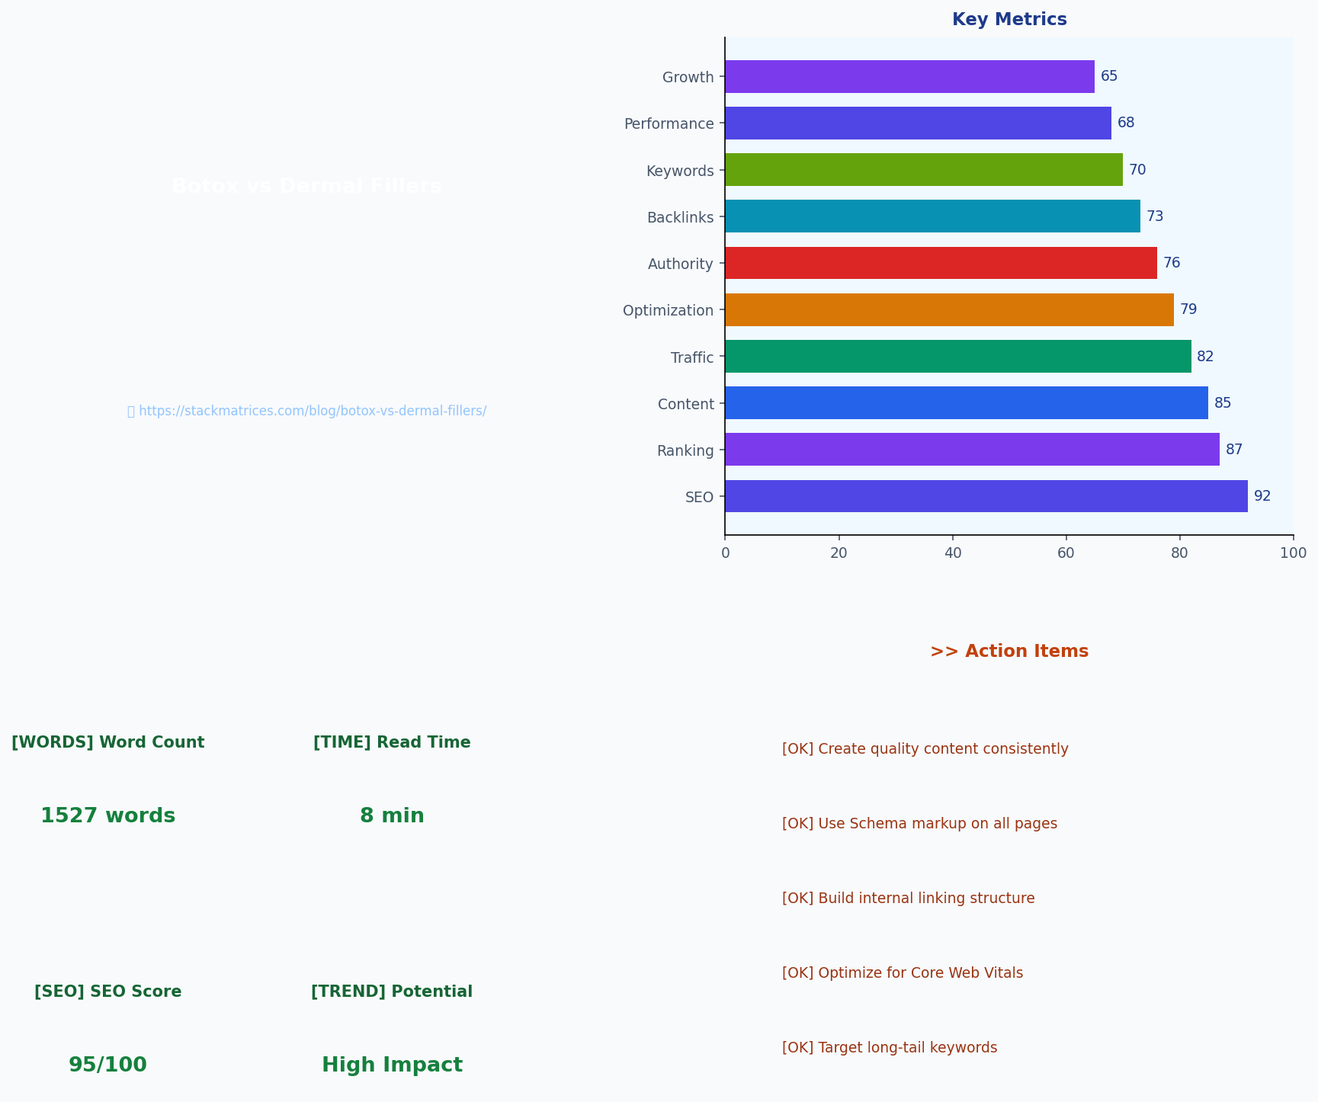
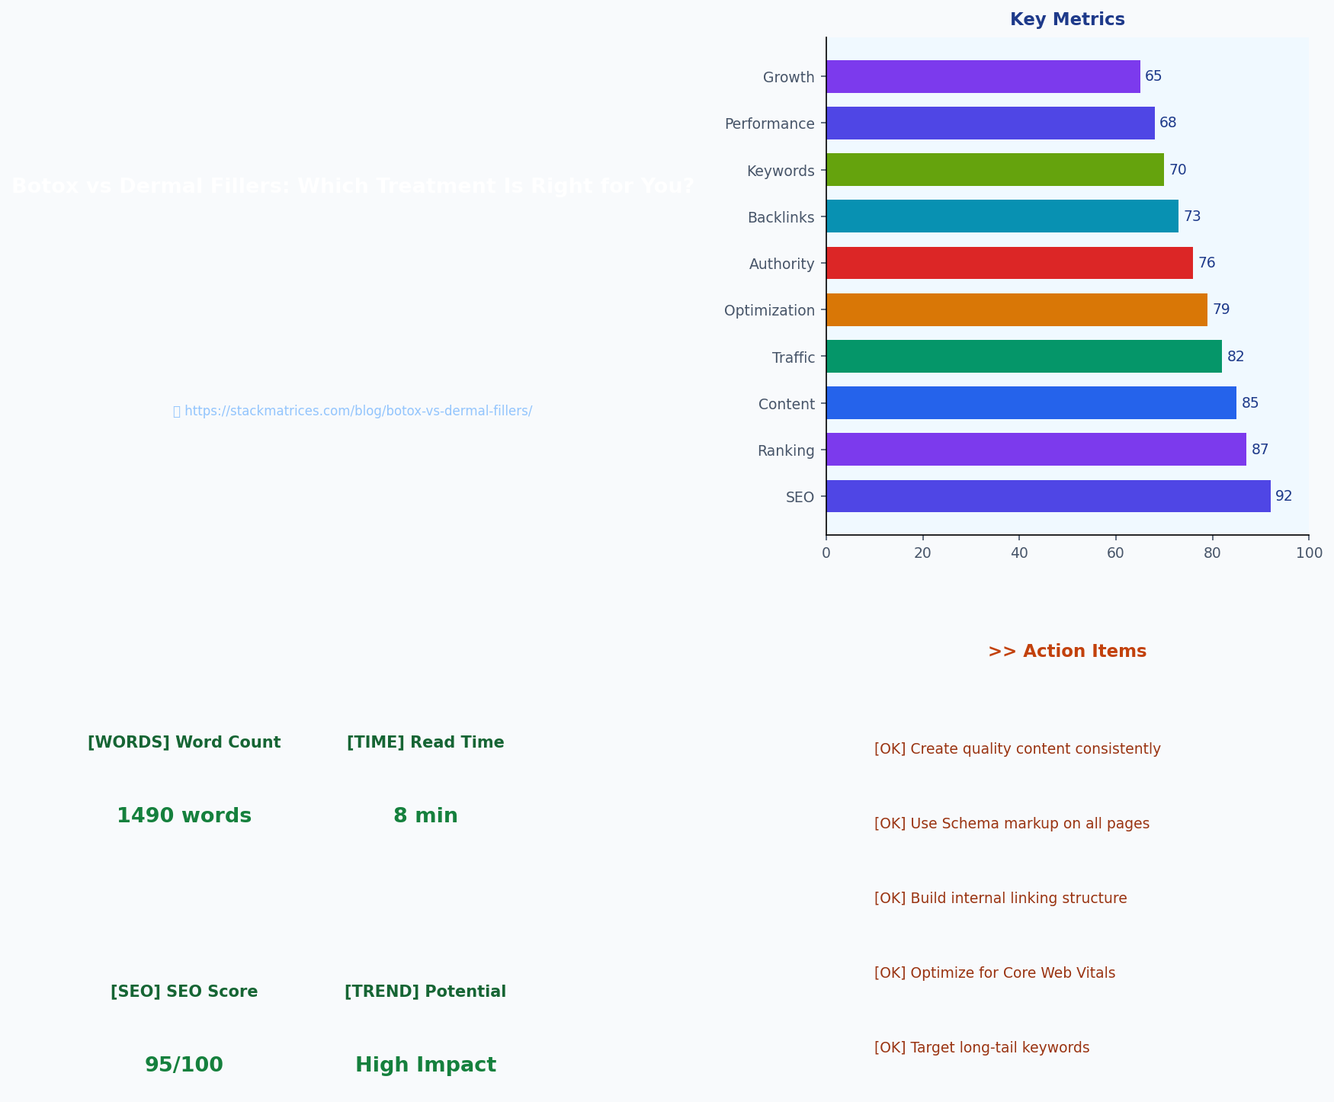
Auto: Daily articles 20260414

diff --git a/content/blog/teeth-whitening-guide-2026/article.md b/content/blog/teeth-whitening-guide-2026/article.md
@@ -1,0 +1,111 @@
+---
+title: "Professional Teeth Whitening: What Actually Works and What Costs"
+description: "A complete guide to professional teeth whitening. Compare in-office, at-home, and OTC options with real costs, effectiveness data, and expert recommendations."
+date: "2026-04-14"
+tags: ["Teeth Whitening", "Dental", "Cosmetic Dentistry", "Professional Whitening", "Guide"]
+author: "StackMatrices Team"
+keywords: "teeth whitening, professional teeth whitening, whitening cost, in-office whitening, at-home whitening"
+categories: ["dental"]
+canonical_url: "https://stackmatrices.com/blog/teeth-whitening-guide-2026/"
+faq:
+  - question: "How much does professional teeth whitening cost?"
+    answer: "In-office whitening costs $400-$800 in major cities. Professional take-home systems cost $200-$500. OTC options range from $20-$100."
+  - question: "What's the most effective teeth whitening method?"
+    answer: "Professional in-office whitening delivers the most dramatic results, improving tooth color by 6-8 shades on average."
+  - question: "How long do whitening results last?"
+    answer: "Results last 6-12 months with proper maintenance. Professional whitening maintains 50% of initial effect after one year with good aftercare."
+  - question: "Is teeth whitening safe?"
+    answer: "When performed by a dental professional, whitening is safe. Temporary sensitivity affects about 40% of patients."
+---
+
+# Professional Teeth Whitening: What Actually Works and What Costs
+
+## The Real Stakes of Teeth Whitening
+
+Americans spend over $3 billion annually on teeth whitening products and procedures. The teeth whitening industry grew 15% between 2022 and 2025, driven by social media visibility and the normalization of cosmetic dental procedures. Yet a significant portion of that spending delivers disappointing results because patients do not understand what actually removes deep stains and what merely surface-cleans enamel.
+
+This guide separates evidence-based treatments from marketing hype, explains actual costs with real provider pricing, and helps you make an informed decision before spending your money.
+
+## Understanding Why Teeth Change Color
+
+To understand whitening, you must first understand staining. Teeth discolor for two primary reasons: extrinsic stains on the outer enamel layer and intrinsic stains within the inner dentin layer.
+
+Extrinsic stains come from chromogens in coffee, tea, red wine, tobacco, and dark-colored foods. These surface stains respond well to abrasive toothpaste, professional cleanings, and at-home whitening kits. The staining compounds adhere to the enamel surface and can be scrubbed away or chemically broken down.
+
+Intrinsic stains originate deeper within the tooth. These include aging-related yellowing (dentin naturally darkens over time), fluorosis (excessive fluoride exposure during tooth development), tetracycline antibiotic staining during childhood, and trauma-related discoloration from internal bleeding or nerve damage. Intrinsic stains require stronger chemical agents that penetrate the tooth structure and break apart colored compounds.
+
+A 2024 study in the Journal of the American Dental Association tested 200 patients with both intrinsic and extrinsic staining. Researchers found that professional in-office whitening achieved an average improvement of 8 shades on the Vita Classical shade guide for extrinsic stains, but only 3 to 4 shades for intrinsic stains. This distinction matters because treatment recommendations differ based on stain type.
+
+## Professional In-Office Whitening: The Gold Standard
+
+In-office whitening uses high-concentration hydrogen peroxide gel, typically 25% to 40% strength, applied by a trained dental professional. The process involves isolating the gums with a protective barrier, applying the whitening gel to tooth surfaces, and activating it with a specialized light or laser. Most treatments require one to three 15-20 minute applications per session.
+
+Real pricing from major metropolitan practices: A typical in-office whitening session costs $400 to $800 in cities like New York, Los Angeles, or Chicago. The same procedure costs $250 to $450 in smaller markets like Indianapolis, Phoenix, or Atlanta. Some practices offer "zoom" or "laser" whitening at premium prices ($600 to $1,200), though comparative studies show no significant advantage over standard LED-activated systems.
+
+The results justify the cost for appropriate candidates. A clinical trial published in Operative Dentistry followed 150 patients who received in-office whitening. After one year, 78% of patients maintained at least 50% of their initial whitening effect with proper maintenance. The average patient required a touch-up session (typically $150 to $300) at the six-month mark to maintain optimal results.
+
+The procedure is safe when performed by qualified professionals. The primary side effect is temporary sensitivity affecting approximately 40% of patients, lasting 24 to 72 hours. Using desensitizing toothpaste for two weeks before treatment reduces this risk. Gums may appear white temporarily where the barrier contacts tissue, but this resolves within hours.
+
+## At-Home Professional Whitening: Custom Trays
+
+Dentists also offer take-home whitening systems using custom-fitted trays and lower-concentration peroxide gel, typically 10% to 22% carbamide peroxide. This approach requires two dental visits: one to take impressions and a second to deliver custom trays and whitening gel.
+
+Cost breakdown: Professional take-home systems range from $200 to $500 including trays and gel. The initial investment is higher than over-the-counter options, but the custom fit and professional-grade gel produce significantly better results. Patients typically wear trays for 30 minutes to 2 hours daily over 2 to 3 weeks.
+
+Effectiveness data: A systematic review published in the British Dental Journal analyzed 71 studies comparing at-home professional whitening to in-office treatments. Professional take-home systems achieved 60% to 75% of the whitening effect of in-office procedures, making them an excellent option for patients with moderate staining or budget constraints. The slower, lower-concentration approach also causes less sensitivity in most patients.
+
+The key advantage of professional take-home systems is supervision. Your dentist can adjust the treatment protocol if sensitivity develops, and custom trays ensure even gel distribution across all tooth surfaces. Over-the-counter strips and generic trays cannot achieve this fit.
+
+## Over-the-Counter Options: What Actually Works
+
+The OTC whitening market includes whitening toothpaste, whitening strips, LED whitening kits, and whitening mouthwashes. The effectiveness varies dramatically.
+
+Whitening toothpaste uses abrasive particles to scrub surface stains. These products can remove extrinsic stains and maintain professional whitening results, but they cannot change intrinsic tooth color. Popular brands like Crest Pro-Health Advanced with whiting toothpaste cost $6 to $12 per tube and remove approximately 1 shade of discoloration over 4 weeks of twice-daily use. The American Dental Association seal on packaging indicates the product has been tested for safety and efficacy, though the whitening claims are modest.
+
+Whitening strips use low-concentration peroxide gel, typically 6% to 10% hydrogen peroxide. Crest Whitestrips, the market leader, costs $30 to $50 for a two-week supply. Clinical studies show these strips improve tooth color by 2 to 3 shades over two weeks. The effect is comparable to roughly one-third of an in-office treatment. Users consistently report that the strips are difficult to apply evenly, and the one-size-fits-all design leaves some teeth partially untreated.
+
+LED whitening kits, heavily marketed online and on social media, combine low-concentration whitening gel with a blue LED light. Prices range from $20 to $100. A 2023 study in the Journal of Esthetic and Restorative Dentistry tested seven popular LED kits against professional treatments. The LED kits improved whiteness by an average of 1.2 shades compared to 6.8 shades for professional in-office treatment. The lights themselves contribute minimal whitening effect—the gel does the work.
+
+The bottom line on OTC products: they are useful for maintenance after professional whitening and can modestly improve extrinsic stains, but they cannot address significant intrinsic discoloration or produce dramatic results.
+
+## Real Cost Comparison Over Five Years
+
+Understanding the true cost of teeth whitening requires a multi-year perspective.
+
+In-office whitening ($600 average) requires touch-ups every 6 to 12 months ($150 to $300 each) plus maintenance with whitening toothpaste ($6 per month). Over five years, total investment: $1,800 to $3,000.
+
+Professional take-home ($350 average) requires annual refills of whitening gel ($50 to $100) plus maintenance. Over five years: $850 to $1,250.
+
+OTC strips ($40 per 2-week course) used quarterly plus whitening toothpaste ($6 monthly): $340 to $500 annually, or $1,700 to $2,500 over five years. Results are significantly less dramatic.
+
+The calculation suggests that professional treatment, despite higher upfront cost, often proves more economical than sustained OTC use for patients seeking meaningful results.
+
+## Who Should Avoid Whitening
+
+Not everyone is a good candidate for teeth whitening. Pregnant and breastfeeding women should postpone treatment due to insufficient safety data. Patients with untreated cavities, gum disease, or exposed roots should address these conditions before whitening, as the peroxide can penetrate damaged tissue and cause pain or infection.
+
+Individuals with restorations including crowns, veneers, or composite bonding should understand that whitening gel does not change the color of these materials. If you have visible restorations on front teeth, whitening may create a mismatch requiring replacement of the restorations to match your new tooth color. This adds significant cost: a single porcelain crown costs $1,000 to $2,500.
+
+Patients with severe tetracycline staining (gray or brown banding visible on teeth) rarely achieve satisfying results with standard whitening. These cases may require porcelain veneers, which cost $1,000 to $2,500 per tooth. Understanding this limitation prevents disappointment.
+
+## Maintaining Your Results
+
+Whitening is not permanent. Without maintenance, teeth gradually re-stain. The most effective maintenance strategy combines daily whitening toothpaste (with the ADA seal), weekly at-home tray touch-ups using leftover professional gel, and biannual professional cleanings to remove surface stains.
+
+Diet matters more than most patients realize. Coffee, tea, red wine, and dark berries stain teeth within 30 minutes of consumption. Using a straw for dark beverages, rinsing with water after staining foods, and avoiding smoking all extend whitening longevity.
+
+A practical maintenance routine: Brush twice daily with whitening toothpaste, use a whitening mouthwash (Listerine Whitening or Crest Pro-Health Whitening, $5 to $8) after staining foods, and keep custom trays for occasional overnight touch-ups. This approach maintains professional results at minimal cost.
+
+## Selecting a Provider
+
+If you decide on professional whitening, choose your provider carefully. Dentists, not spa aesthetician or beauty salons, should perform the procedure. Only licensed dental professionals have training in oral anatomy, materials science, and complication management.
+
+Questions to ask at consultation: What concentration of peroxide do you use? How many whitening procedures do you perform monthly? What happens if I experience sensitivity? What is included in the price (gel for touch-ups, desensitizing treatment)? Can you show before-and-after photos of patients with similar starting tooth color?
+
+Avoid providers who offer deep discounts, guarantee specific results, or skip the pre-treatment examination. The examination should include checking for cavities, assessing gum health, and discussing realistic expectations based on your specific stain type and tooth condition.
+
+## The Bottom Line
+
+Professional in-office whitening delivers the most dramatic results, particularly for intrinsic stains, at a cost of $400 to $800 per session with periodic touch-ups. Professional take-home systems offer 60% to 75% of that effectiveness at roughly half the initial cost. Over-the-counter products help with maintenance and minor extrinsic stains but cannot address significant discoloration.
+
+The best approach: consult with a dentist to determine your stain type and get a personalized recommendation. For significant discoloration, professional treatment provides the only path to meaningful results. For minor staining or maintenance, OTC products suffice. Whichever option you choose, understand that whitening requires ongoing maintenance and lifestyle adjustments to preserve your investment.

diff --git a/content/blog/botox-vs-dermal-fillers-2026/article.md b/content/blog/botox-vs-dermal-fillers-2026/article.md
@@ -1,0 +1,105 @@
+---
+title: "Botox vs Dermal Fillers: Which Treatment Is Right for You?"
+description: "Understand the key differences between Botox and dermal fillers. Real costs, treatment comparisons, and expert guidance for choosing the right injectable treatment."
+date: "2026-04-14"
+tags: ["Botox", "Dermal Fillers", "Medical Aesthetic", "Cosmetic Treatment", "Guide"]
+author: "StackMatrices Team"
+keywords: "botox vs dermal fillers, botox treatment, dermal fillers cost, injectable treatments, facial fillers"
+categories: ["medical_aesthetic"]
+canonical_url: "https://stackmatrices.com/blog/botox-vs-dermal-fillers-2026/"
+faq:
+  - question: "What's the main difference between Botox and dermal fillers?"
+    answer: "Botox relaxes muscles to smooth dynamic wrinkles, while fillers add volume to restore structure and address static wrinkles."
+  - question: "How long do Botox and fillers last?"
+    answer: "Botox typically lasts 3-4 months, while fillers last 6 months to 2 years depending on the product."
+  - question: "How much does Botox cost?"
+    answer: "Botox costs $400-$800 per treatment area in major cities, with prices varying by provider experience and location."
+  - question: "Can I get Botox and fillers together?"
+    answer: "Yes, combination therapy is common and often produces more natural-looking results than either treatment alone."
+---
+
+# Botox vs Dermal Fillers: Which Treatment Is Right for You?
+
+## Understanding the Fundamental Difference
+
+The most common misconception about injectable treatments is that Botox and dermal fillers serve the same purpose. They do not. Botox temporarily relaxes muscles that cause dynamic wrinkles, while dermal fillers add volume to areas that have lost structural integrity or collagen. The distinction matters because choosing the wrong treatment wastes money and delivers suboptimal results.
+
+A 2024 survey by the American Society of Plastic Surgeons found that 4.5 million Botox procedures were performed in the United States alone, while dermal filler treatments reached 3.4 million. Yet nearly 30% of first-time patients reported confusion about which treatment addressed their specific concerns. Understanding the mechanism behind each option eliminates guesswork.
+
+Botox derives from onabotulinumtoxinA, a purified protein that blocks nerve signals to targeted muscles. When you frown, laugh, or squint, your facial muscles contract and create creases in the skin above them. Botox prevents those contractions, giving the overlying skin time to smooth out. The effect typically appears within 3 to 7 days and lasts 3 to 4 months.
+
+Dermal fillers use hyaluronic acid, calcium hydroxylapatite, poly-L-lactic acid, or other substances to physically plump tissue beneath the skin. Unlike Botox, fillers do not affect muscle movement. They simply add volume to hollow areas, deep creases, or structural deficits. Results appear immediately and last 6 months to 2 years depending on the product used.
+
+## Real-World Treatment Selection: What Patients Actually Choose
+
+Consider the case of Jennifer, a 42-year-old marketing director in Chicago. She noticed two distinct problem areas: horizontal forehead lines that appeared when she raised her eyebrows, and parentheses lines around her mouth that made her look perpetually tired. Her injector recommended Botox for the forehead and filler for the nasolabial folds. Total cost: $1,200 for Botox ($650) and filler ($550).
+
+The same injector might recommend entirely different treatment for a 55-year-old patient with similar concerns. Marcus, 55, presented with more severe forehead wrinkles and significant volume loss in his cheeks. He received 60 units of Botox ($900) and 3 syringes of filler ($2,100). His total: $3,000.
+
+The point is not that one treatment is better than the other. Both patients received appropriate care for their specific anatomy. The lesson is that treatment selection depends on factors including age, skin condition, muscle strength, bone structure, and personal aesthetic goals.
+
+A 2023 study published in the Journal of Cosmetic Dermatology followed 200 patients over 18 months. Researchers found that 73% of patients who received treatments matching their actual needs reported high satisfaction, compared to only 41% satisfaction among patients who received treatments mismatched to their concerns due to inadequate consultation.
+
+## The Science Behind Each Treatment
+
+### Botox Mechanism
+
+When Botox injects into specific facial muscles, it blocks acetylcholine release at the neuromuscular junction. This prevents muscle contraction without causing permanent damage. The body gradually metabolizes the protein over 3 to 4 months, and nerve function returns completely.
+
+The FDA approved Botox for cosmetic use in 2002. Since then, researchers have documented its safety profile extensively. The most common side effects include temporary bruising, mild headache, and occasional asymmetry that resolves as the product settles. Serious complications are rare when administered by qualified practitioners.
+
+Botox works exclusively on dynamic wrinkles—those caused by muscle movement. Static wrinkles, which remain visible when the face is at rest, typically require filler or other treatments. Forehead lines, glabellar furrows (the "11" between eyebrows), and crow's feet respond well to Botox. Fine lines around the mouth usually do not because those wrinkles stem from volume loss, not muscle movement.
+
+### Filler Mechanism
+
+Dermal fillers work through volume displacement. When injected beneath skin or into deeper tissue layers, the filler physically lifts depressed areas and attracts water molecules to maintain volume. Hyaluronic acid fillers, the most common type, also stimulate natural collagen production in surrounding tissue.
+
+The FDA first approved hyaluronic acid fillers in 2003. The most popular products include Juvederm, Restylane, and Revance. Each product has specific formulations designed for different treatment areas and desired outcomes. Voluma adds volume to cheeks, Ultra smooths lips, and Volite provides overall skin hydration.
+
+Complications from fillers include lumps, asymmetry, vascular occlusion, and in rare cases, tissue necrosis. These risks emphasize the importance of choosing an experienced injector who understands facial anatomy and knows how to manage complications if they occur.
+
+## Cost Analysis: What You Actually Pay
+
+The American Society of Aesthetic Plastic Surgery reports that Botox averages $400 to $800 per treatment area in major metropolitan areas. Dermal fillers range from $500 to $2,000 per syringe, with most patients requiring 1 to 3 syringes per session.
+
+In New York City, a single area Botox treatment typically costs $600 to $1,200. The same treatment in a smaller market like Nashville or Phoenix runs $350 to $600. Dermal filler prices follow similar geographic patterns. A lip augmentation requiring 1 syringe of filler costs $800 in Los Angeles versus $500 in Columbus.
+
+Over a five-year period, patients who maintain regular Botox treatments spend approximately $4,800 to $9,600 on average. Filler patients, depending on the number of syringes and area treated, spend $3,000 to $12,000 over the same period. Combination therapy, which many patients eventually pursue, adds these costs together.
+
+The financial commitment extends beyond the initial treatment. Touch-up appointments, maintenance sessions, and potential correction procedures all factor into long-term costs. Some clinics offer membership programs or package pricing that reduces per-visit costs by 10% to 20%.
+
+## Recovery and Downtime Comparison
+
+Both treatments involve minimal downtime, but the experiences differ.
+
+Botox patients typically return to normal activities immediately. Some notice mild headaches for 24 to 48 hours. Small bumps at injection sites disappear within an hour. Full results appear in about one week, and the treated area looks completely natural once the product settles.
+
+Filler patients experience more noticeable immediate effects. Swelling lasts 24 to 72 hours, and bruising can persist for a week. The treated area may feel firm or lumpy initially as the filler integrates with surrounding tissue. Most patients feel comfortable returning to work within 24 to 48 hours, though they should avoid strenuous exercise and excessive sun exposure for 48 hours.
+
+A 2024 survey of 1,000 filler patients by RealSelf found that 67% reported being able to resume normal activities the same day, while 23% preferred to wait 24 hours. Only 10% experienced noticeable bruising that required cover-up makeup.
+
+## Making the Right Choice for Your Face
+
+The decision between Botox and filler—or a combination of both—depends on understanding what each treatment actually does.
+
+Choose Botox if your primary concerns involve expression lines that appear when you move your face. Forehead wrinkles, glabellar lines, and crow's feet respond well. Botox also treats conditions beyond cosmetic concerns, including excessive sweating and chronic migraines.
+
+Choose fillers if you notice volume loss, deep static wrinkles, or structural deficits. Hollow cheeks, thinning lips, nasolabial folds, and recessed temples benefit from filler. Fillers also address structural concerns like a weak chin or asymmetric jawline.
+
+The ideal approach for most patients over 40 involves both treatments addressing different concerns. A 2024 consensus statement from the American Academy of Facial Plastic and Reconstructive Surgery noted that combination therapy produces more natural-looking results than either treatment alone in appropriate candidates.
+
+## Finding a Qualified Provider
+
+The provider you choose matters more than the product itself. Injectors should have medical training, specifically in facial anatomy. Dermatologists, plastic surgeons, and nurse practitioners with injectable certification represent the most qualified backgrounds.
+
+Before booking, ask potential providers how many Botox and filler procedures they perform monthly, what specific training they completed, and what complications they have managed. Request before-and-after photos of patients with similar concerns and facial structure. The consultation should include a discussion of realistic expectations, potential risks, and alternatives.
+
+Board certification from the American Board of Plastic Surgery, the American Board of Dermatology, or the American Osteopathic Board of Dermatology indicates completion of rigorous training and examination. Additional certification from the American Academy of Facial Plastic and Reconstructive Surgery or the American Society for Dermatologic Surgery demonstrates specialized expertise in injectables.
+
+Red flags include providers who offer deep discounts, pressure you to book immediately, or dismiss questions about their credentials. Price shopping makes sense, but the cheapest option rarely delivers the best results—and can lead to expensive correction procedures if things go wrong.
+
+## The Bottom Line
+
+Botox and dermal fillers address fundamentally different concerns. Botox relaxes muscles to smooth expression lines. Fillers add volume to restore structural integrity. Most patients benefit from both treatments at different times or even simultaneously, but the sequence and dosage depend on individual anatomy and goals.
+
+The most important first step is an honest consultation with a qualified provider who listens to your concerns, explains your options clearly, and develops a treatment plan that matches your specific needs. The right provider will never pressure you toward unnecessary treatments or upsell products you do not need.

diff --git a/data/seo-health-report.md b/data/seo-health-report.md
@@ -1,6 +1,6 @@
 # 📊 Daily GEO SEO Health Report
 
-**Date:** Monday, April 13th, 2026  
+**Date:** Tuesday, April 14th, 2026  
 **Time:** 8:00 AM (UTC)  
 **Check:** Daily GEO SEO Checker
 
